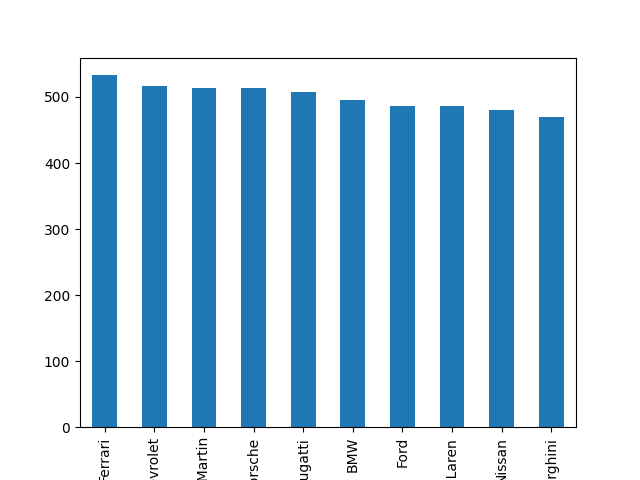
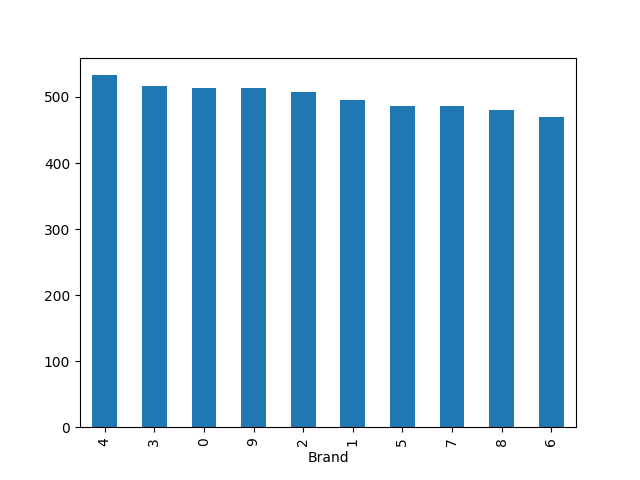
ready for regression

diff --git a/main.py b/main.py
@@ -2,6 +2,10 @@ import pandas as pd
 import numpy as np
 import matplotlib.pyplot as plt
 import seaborn as sns
+from sklearn.preprocessing import StandardScaler, LabelEncoder
+from sklearn.model_selection import train_test_split
+from sklearn.linear_model import LinearRegression
+from sklearn.metrics import mean_squared_error, mean_absolute_error, r2_score
 
 datapath = 'data/Elite Sports Cars in Data.csv'
 data = pd.read_csv(datapath)
@@ -10,41 +14,45 @@ data = pd.read_csv(datapath)
 ## Fill missing values with Unknown
 data['Modification'] = data['Modification'].fillna('Unknown')
 
-## Format Year
-data['Year'] = data['Year'].astype(int)
+## Format Year using pd.to_datetime
+data['Year'] = pd.to_datetime(data['Year'], format='%Y', errors='coerce')
 
-## Format condition
-### 0: Used, 1: New
-data['Condition'] = data['Condition'].str.lower()
-data['Condition'] = data['Condition'].apply(lambda x: 1 if x == 'new' else 0)
+## Format Brand in Categorical Data using LabelEncoder
+labelencoder = LabelEncoder()
+data['Brand'] = labelencoder.fit_transform(data['Brand'])
 
-## Format Fuel_Type
-### 0: petrol, 1: diesel, 2: electric
-data['Fuel_Type'] = data['Fuel_Type'].str.lower()
-data['Fuel_Type'] = data['Fuel_Type'].apply(lambda x: 0 if x == 'petrol' else (1 if x == 'diesel' else 2))
+## Format Model in Categorical Data using LabelEncoder
+data['Model'] = labelencoder.fit_transform(data['Model'])
 
-## Format Drivetrain
-### 0: RWD, 1: AWD, 2: FWD
-data['Drivetrain'] = data['Drivetrain'].str.lower()
-data['Drivetrain'] = data['Drivetrain'].apply(lambda x: 0 if x == 'rwd' else (1 if x == 'awd' else 2))
+## Format Country in Categorical Data using LabelEncoder
+data['Country'] = labelencoder.fit_transform(data['Country'])
 
-## Format Transmission
-### 0: CVT, 1: Automatic, 2: DCT, 3: Manual
-data['Transmission'] = data['Transmission'].str.lower()
-data['Transmission'] = data['Transmission'].apply(lambda x: 0 if x == 'cvt' else (1 if x == 'automatic' else (2 if x == 'dct' else 3)))
+## Format Modification in Categorical Data using LabelEncoder
+data['Modification'] = labelencoder.fit_transform(data['Modification'])
 
-## Format Popularity
-### 0: Low, 1: Medium, 2: High
-data['Popularity'] = data['Popularity'].str.lower()
-data['Popularity'] = data['Popularity'].apply(lambda x: 0 if x == 'low' else (1 if x == 'medium' else 2))
+## Format Condition in Categorical Data using LabelEncoder
+data['Condition'] = labelencoder.fit_transform(data['Condition'])
 
-## Format Market_Demand
-### 0: Low, 1: Medium, 2: High
-data['Market_Demand'] = data['Market_Demand'].str.lower()
-data['Market_Demand'] = data['Market_Demand'].apply(lambda x: 0 if x == 'low' else (1 if x == 'medium' else 2))
+## Format Fuel_Type in Categorical Data using LabelEncoder
+data['Fuel_Type'] = labelencoder.fit_transform(data['Fuel_Type'])
 
+## Format Drivetrain in Categorical Data using LabelEncoder
+data['Drivetrain'] = labelencoder.fit_transform(data['Drivetrain'])
+
+## Format Transmission in Categorical Data using LabelEncoder
+data['Transmission'] = labelencoder.fit_transform(data['Transmission'])
+
+## Format Popularity in Categorical Data using LabelEncoder
+data['Popularity'] = labelencoder.fit_transform(data['Popularity'])
+
+## Format Market_Demand in Categorical Data using LabelEncoder
+data['Market_Demand'] = labelencoder.fit_transform(data['Market_Demand'])
+
+print(data.info())
+
+# Datetime: Year
 # Categorical: Brand, Model, Country, Modification
-# Numerical: Year, Engine_Size, Condition, Transmission, Market_Demand, Popularity, Fuel_Type, Drivetrain, Horsepower, Torque, Weight, Top_Speed, Acceleration_0_100, Fuel_Efficiency, CO2_Emissions, Price, Mileage, Safety_Rating, Number_of_Owners, Insurance_Cost, Production_Units, Log_Price, Log_Mileage
+# Numerical: Engine_Size, Condition, Transmission, Market_Demand, Popularity, Fuel_Type, Drivetrain, Horsepower, Torque, Weight, Top_Speed, Acceleration_0_100, Fuel_Efficiency, CO2_Emissions, Price, Mileage, Safety_Rating, Number_of_Owners, Insurance_Cost, Production_Units, Log_Price, Log_Mileage
 # Null in Modification
 
 # Data Exploration
@@ -146,6 +154,32 @@ plt.clf()
 
 ## Correlation
 correlation = data.corr()
-correlation.to_csv('visualize/correlation.csv')
+plt.figure(figsize=(20, 20))
+sns.heatmap(correlation, annot=True)
+plt.savefig('visualize/correlation/correlation.png')
 
-## Pairplot
+# Data Preprocessing
+## Drop columns
+
+## Split data
+X = data.drop(columns=['Price'])
+y = data['Price']
+X_train, X_test, y_train, y_test = train_test_split(X, y, test_size=0.25, random_state=42)
+
+## Standardize data
+scaler = StandardScaler()
+X_train = scaler.fit_transform(X_train)
+X_test = scaler.transform(X_test)
+
+# Model Training
+## Linear Regression
+lr_model = LinearRegression()
+lr_model.fit(X_train, y_train)
+y_pred = lr_model.predict(X_test)
+
+## Evaluation
+mse = mean_squared_error(y_test, y_pred)
+mae = mean_absolute_error(y_test, y_pred)
+
+print(f'Mean Squared Error: {mse}')
+print(f'Mean Absolute Error: {mae}')
